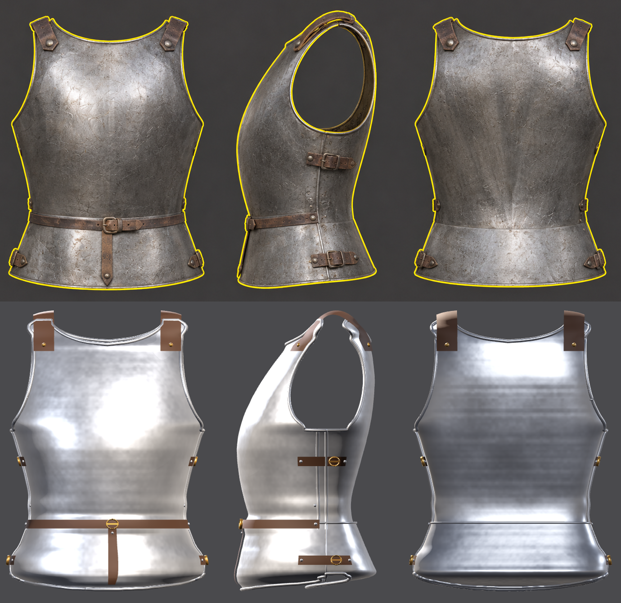
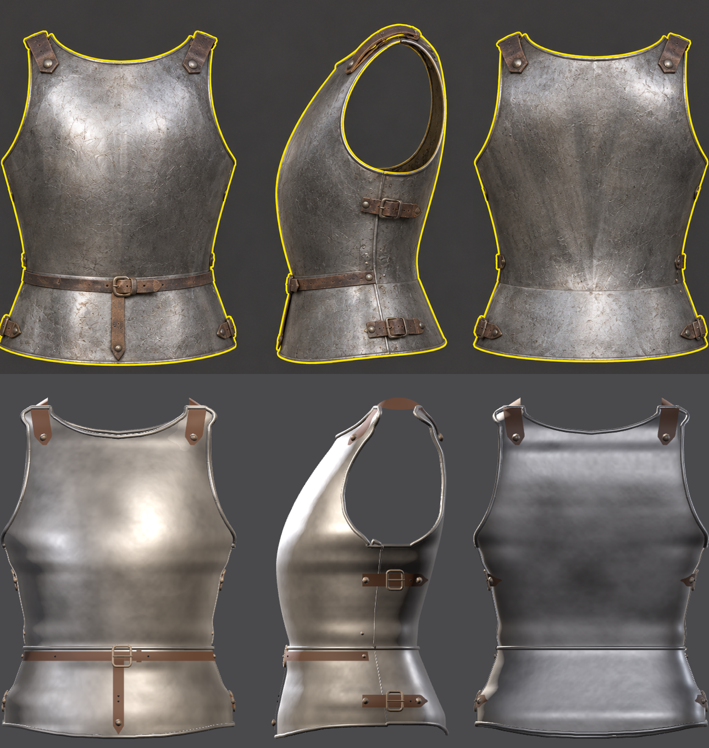
Cuirass pass 9: aged steel finish, iron hardware; v0.14
New default Aged Steel finish sampled from the reference photos (darker,
warmer, heavier hammering), black-iron buckles and rivets on the cuirass.
README and docs images updated for the nine refinement passes.

Claude-Session: https://claude.ai/code/session_01WeZQLGxhK27PqRdm928ucn

diff --git a/README.md b/README.md
@@ -10,6 +10,26 @@ Design full suits of plate armor and sculpt your own helmet. Built in Godot 4.4 
 
 ![Proportions](docs/proportions.png)
 
+## v0.14 – nine refinement passes on the cuirass
+
+Each pass was measured against the reference sheet before and after (`tools/edge_compare.py`, `tools/silhouette_compare.py`).
+
+1. **Armholes** fitted to the side view, closing in a round bottom.
+2. **Neckline** corrected column by column; the flat back is now meshed evenly so the back neck dips to its true depth (back neck 2.5 → 1.1 mm).
+3. **Hem:** the fauld no longer curls inward at the bottom; the hem levels out at the sides as the side view shows.
+4. **Outline:** widths below the armholes and the backplate's depth refitted; depth tables smoothed, which removes the banding on the backplate.
+5. **Shoulder straps:** an inch wide, leaning in toward the neck, blunt pointed ends under one big domed rivet, lying on the shoulder slope over the top.
+6. **Front belt:** 14 mm strap on the fauld directly under the breastplate's rolled lower edge, square iron buckle with prong, free end with keeper and pointed tip, hanging strap with domed rivet, punched holes. The plates now lap over the fauld.
+7. **Side straps:** riveted ahead of the seam, square buckle just behind it, holed end running back to a pointed tip.
+8. **Seams:** the side seam curves forward at the waist as on the sheet; the breastplate's side edge is a thin lap line instead of a rolled tube.
+9. **Finish:** new default **Aged Steel** finish sampled from the photos (darker, warmer, heavier hammering) and black-iron buckles and rivets.
+
+Silhouette error against the sheet: about 2 mm front, 0.9 mm side, 1.6 mm back (was 2.5 / 2.8 / 4.1). Edges: neck about 1 mm, front armholes 1 mm, front and back hem under 2 mm. The side view's hem stays about 9 mm off: the photos were taken in perspective, so the side view and the front view disagree about the hem, and the cuirass follows the front and back views there.
+
+![Reference vs cuirass](docs/cuirass.png)
+![Silhouette overlay](docs/cuirass_silhouette.png)
+![On the mannequin](docs/cuirass_on_mannequin.png)
+
 ## v0.13 – cuirass true to the reference sheet
 
 The cuirass follows the reference sheet only; it is not reshaped to fit the mannequin.
@@ -21,10 +41,6 @@ The cuirass follows the reference sheet only; it is not reshaped to fit the mann
 - **Size and placement on the mannequin** are the only fitting: the whole cuirass is scaled up 8% (uniformly, proportions unchanged) and moved 11 mm forward to sit on the figure.
 
 Silhouette error against the sheet: about 2.5 mm front, 2.7 mm side, 4 mm back (`tools/silhouette_compare.py`). Leather straps, belt with buckle and tail, and buckled side straps as before. Cuirass tab: show or hide each piece. Source: `scripts/pieces/cuirass.gd`.
-
-![Reference vs cuirass](docs/cuirass.png)
-![Silhouette overlay](docs/cuirass_silhouette.png)
-![On the mannequin](docs/cuirass_on_mannequin.png)
 
 ## v0.9 – add holes
 
